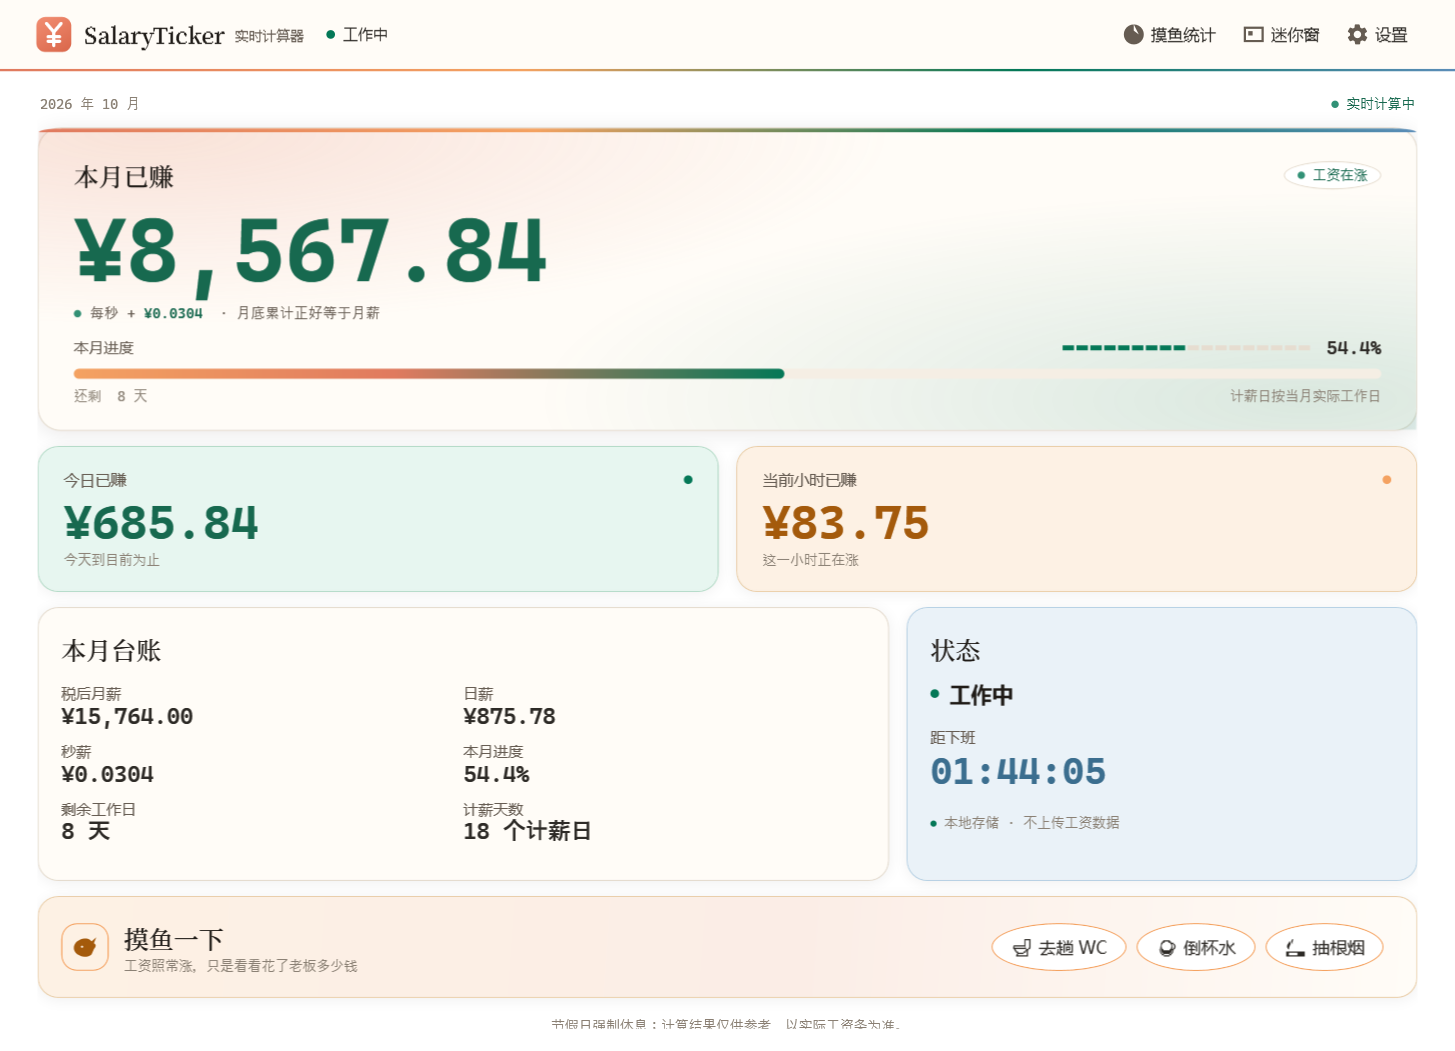
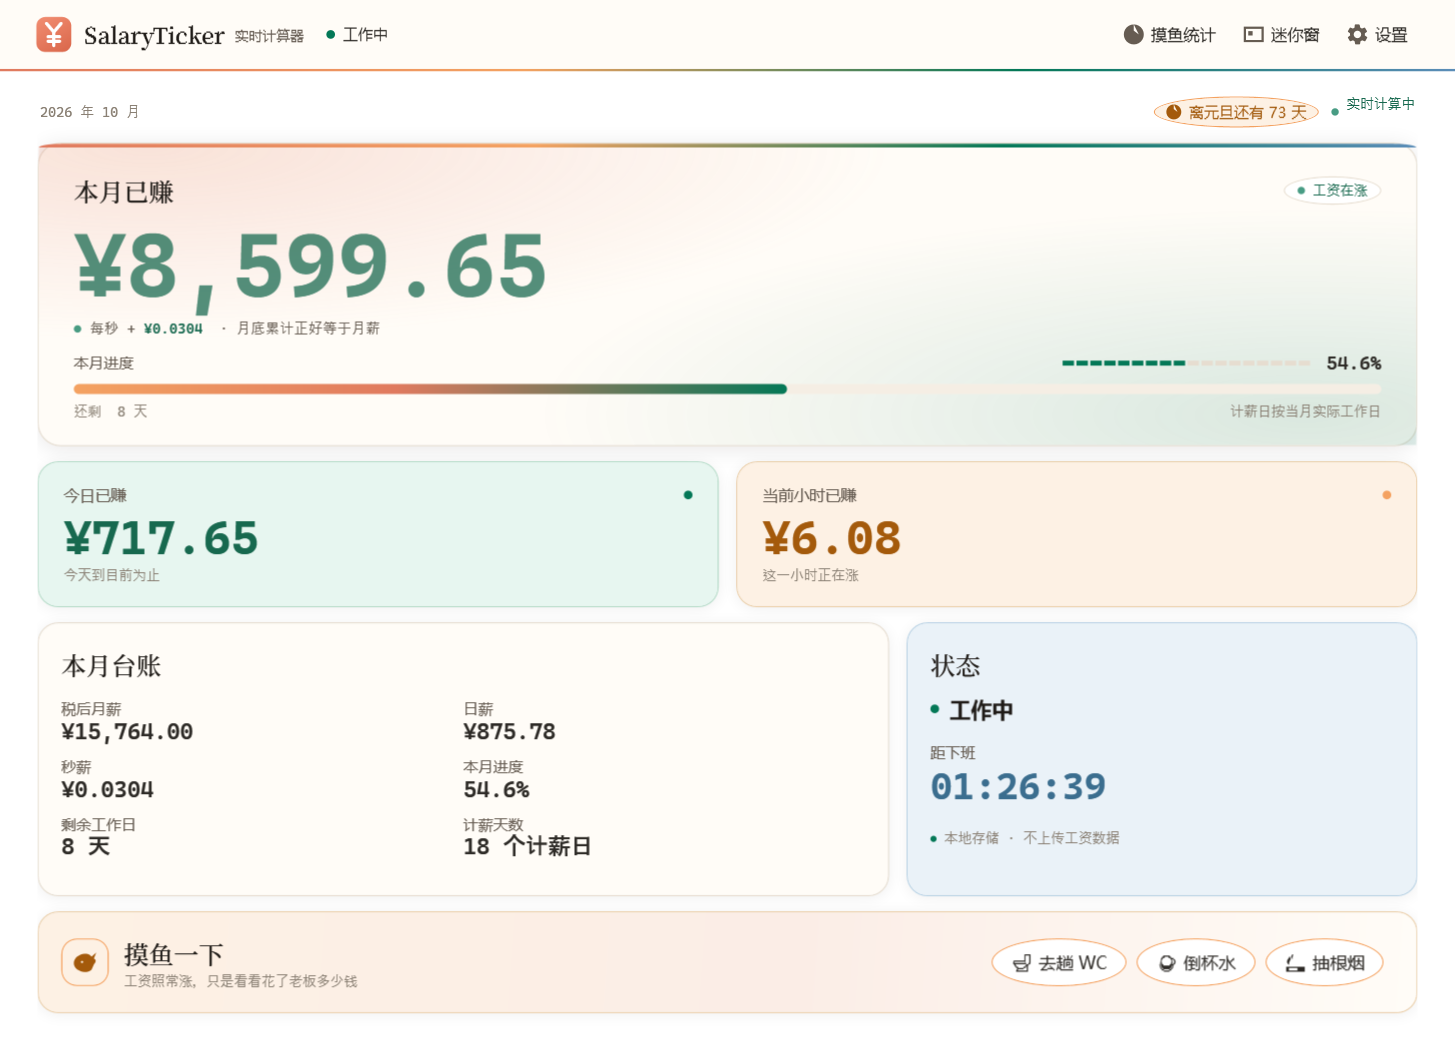
feat(ui): 主窗增加下一个假期倒计时
- 新增 NextHolidayCalculator 纯函数与 MainViewModel.NextHolidayText
- 顶部上下文行增加琥珀胶囊，例如「离元旦还有 73 天」
- 覆盖今天在假期、年末推断元旦、假期表待更新等场景，新增 5 个测试
- 同步更新官网 app-shot

diff --git a/Views/Pages/DashboardView.xaml b/Views/Pages/DashboardView.xaml
@@ -22,6 +22,24 @@
                            Style="{StaticResource WMonoSmallStyle}"
                            VerticalAlignment="Center"/>
                 <StackPanel DockPanel.Dock="Right" Orientation="Horizontal" VerticalAlignment="Center">
+                    <Border Background="{StaticResource WAmberSoftBrush}"
+                            BorderBrush="{StaticResource WAmberBrush}"
+                            BorderThickness="1" CornerRadius="999"
+                            Padding="9,3" Margin="0,0,10,0"
+                            VerticalAlignment="Center">
+                        <StackPanel Orientation="Horizontal">
+                            <Path Data="{StaticResource IconHistory}"
+                                  Fill="{StaticResource WAmberStrongBrush}"
+                                  Width="12" Height="12" Stretch="Uniform"
+                                  VerticalAlignment="Center"/>
+                            <TextBlock Text="{Binding NextHolidayText}"
+                                       FontFamily="{StaticResource WFontBody}"
+                                       FontSize="11.5"
+                                       Foreground="{StaticResource WAmberStrongBrush}"
+                                       Margin="6,0,0,0"
+                                       VerticalAlignment="Center"/>
+                        </StackPanel>
+                    </Border>
                     <Ellipse Style="{StaticResource WLiveDotStyle}" Margin="0,0,6,0"/>
                     <TextBlock Text="实时计算中"
                                Style="{StaticResource WMonoSmallStyle}"

diff --git a/Services/NextHolidayCalculator.cs b/Services/NextHolidayCalculator.cs
@@ -1,0 +1,62 @@
+// ============================================================================
+// 文件名：NextHolidayCalculator.cs
+// 功能描述：根据已配置的节假日，生成「离下一个假期还有多少天」的显示文案。
+//           纯函数，便于单元测试；不依赖系统时间或全局服务。
+// ============================================================================
+
+namespace SalaryTicker.Services;
+
+using System;
+using System.Linq;
+using SalaryTicker.Models;
+
+/// <summary>
+/// 下一个假期倒计时文案
+/// </summary>
+public static class NextHolidayCalculator
+{
+    /// <summary>
+    /// 生成倒计时文案。
+    /// - 今天在假期中：正在{名称}假期
+    /// - 有未来假期：离{名称}还有 N 天
+    /// - 当前年假期表已用完，且包含元旦：推断下一年元旦
+    /// - 其他：假期表待更新
+    /// </summary>
+    public static string Describe(DateOnly today, IReadOnlyList<HolidayEntry> holidays)
+    {
+        if (holidays.Count == 0)
+            return "假期表待更新";
+
+        var todayHoliday = holidays.FirstOrDefault(h => h.Date == today);
+        if (todayHoliday != null)
+            return $"正在{todayHoliday.Name}假期";
+
+        var next = holidays
+            .Where(h => h.Date > today)
+            .MinBy(h => h.Date);
+        if (next != null)
+        {
+            int days = next.Date.DayNumber - today.DayNumber;
+            return $"离{next.Name}还有 {days} 天";
+        }
+
+        int lastYear = holidays.Max(h => h.Date.Year);
+        bool hasNewYear = holidays.Any(h => h.Name.Contains("元旦", StringComparison.Ordinal));
+        bool hasFullYear = holidays
+            .Where(h => h.Date.Year == today.Year)
+            .Select(h => h.Name)
+            .Distinct()
+            .Count() > 1;
+
+        // 年末空档：假期表只到当前年时，下一次固定假期就是下一年元旦。
+        // 如果当前年只有元旦一条（表可能不完整），不猜测。
+        if (today.Year == lastYear && hasNewYear && hasFullYear)
+        {
+            var nextNewYear = new DateOnly(today.Year + 1, 1, 1);
+            int days = nextNewYear.DayNumber - today.DayNumber;
+            return $"离元旦还有 {days} 天";
+        }
+
+        return "假期表待更新";
+    }
+}

diff --git a/tests/ShenzhenSalaryTimer.Tests/NextHolidayCalculatorTests.cs b/tests/ShenzhenSalaryTimer.Tests/NextHolidayCalculatorTests.cs
@@ -1,0 +1,70 @@
+// ============================================================================
+// 文件名：NextHolidayCalculatorTests.cs
+// 功能描述：下一个假期倒计时文案的单元测试。
+// ============================================================================
+
+using System;
+using SalaryTicker.Models;
+using SalaryTicker.Services;
+using Xunit;
+
+namespace ShenzhenSalaryTimer.Tests;
+
+public class NextHolidayCalculatorTests
+{
+    private static HolidayEntry H(string date, string name) =>
+        new() { Date = DateOnly.Parse(date), Name = name };
+
+    [Fact]
+    public void ReturnsNextHolidayCountdown()
+    {
+        var holidays = new[] { H("2026-10-01", "国庆"), H("2027-01-01", "元旦") };
+
+        Assert.Equal(
+            "离元旦还有 73 天",
+            NextHolidayCalculator.Describe(new DateOnly(2026, 10, 20), holidays));
+    }
+
+    [Fact]
+    public void ReturnsInHolidayMessage()
+    {
+        var holidays = new[]
+        {
+            H("2026-10-01", "国庆"),
+            H("2026-10-02", "国庆"),
+            H("2026-10-03", "国庆")
+        };
+
+        Assert.Equal(
+            "正在国庆假期",
+            NextHolidayCalculator.Describe(new DateOnly(2026, 10, 2), holidays));
+    }
+
+    [Fact]
+    public void FallsBackToNextNewYearWhenCurrentYearHolidaysAreExhausted()
+    {
+        var holidays = new[] { H("2026-01-01", "元旦"), H("2026-10-01", "国庆") };
+
+        Assert.Equal(
+            "离元旦还有 73 天",
+            NextHolidayCalculator.Describe(new DateOnly(2026, 10, 20), holidays));
+    }
+
+    [Fact]
+    public void ReturnsUpdateHintWhenHolidayTableIsOutdated()
+    {
+        var holidays = new[] { H("2026-01-01", "元旦"), H("2026-10-01", "国庆") };
+
+        Assert.Equal(
+            "假期表待更新",
+            NextHolidayCalculator.Describe(new DateOnly(2027, 1, 2), holidays));
+    }
+
+    [Fact]
+    public void ReturnsUpdateHintWhenTableIsEmpty()
+    {
+        Assert.Equal(
+            "假期表待更新",
+            NextHolidayCalculator.Describe(new DateOnly(2026, 10, 20), Array.Empty<HolidayEntry>()));
+    }
+}

diff --git a/ViewModels/MainViewModel.cs b/ViewModels/MainViewModel.cs
@@ -59,6 +59,10 @@ public partial class MainViewModel : ObservableObject
     /// <summary>本月进度刻度（每格一个计薪日）</summary>
     public ObservableCollection<PayDayTick> PayDayTicks { get; } = new();
 
+    /// <summary>离下一个假期还有多少天（或正在假期中）</summary>
+    [ObservableProperty]
+    private string _nextHolidayText = "正在计算…";
+
     // ========== 状态显示 ==========
 
     /// <summary>状态文案</summary>
@@ -275,6 +279,9 @@ public partial class MainViewModel : ObservableObject
         MonthContextText = $"{snapshot.Now.Year} 年 {snapshot.Now.Month} 月";
         PayDaysContextText = $"{snapshot.PayableDaysInMonth} 个计薪日";
         UpdatePayDayTicks(snapshot);
+        NextHolidayText = NextHolidayCalculator.Describe(
+            DateOnly.FromDateTime(snapshot.Now.DateTime),
+            AppServices.Config.Settings.HolidayDates);
 
         Status = snapshot.Status;
         StatusText = GetStatusText(snapshot.Status, snapshot.IsMuyu);

diff --git a/docs/ui-refresh/decision.md b/docs/ui-refresh/decision.md
@@ -243,6 +243,20 @@
 - 官网首屏已用新截图验证：`site-warm-shots.png`；图片无 404，设备框与迷你浮层布局正常。
 - `dotnet build` 通过、`dotnet test` 231 全绿、`dotnet run -- smoke` 全部 OK；未部署。
 
+## 下一个假期倒计时（2026-10-20）
+
+- 用户希望在应用内看到「离下一个假期还有多少天」，例如「离元旦还有 73 天」，让用户有盼头。
+- 新增 `Services/NextHolidayCalculator.cs` 纯函数：
+  - 今天在假期中 → 「正在{名称}假期」
+  - 有未来节假日 → 「离{名称}还有 N 天」
+  - 当前年假期表已用完且包含元旦 → 推断下一年元旦
+  - 其他 → 「假期表待更新」
+- `MainViewModel.NextHolidayText` 随每个快照刷新；主窗顶部上下文行增加琥珀色胶囊（时钟图标 + 文案），例如「离元旦还有 73 天」。
+- 新增 5 个单元测试（`NextHolidayCalculatorTests`），测试总数 231 → 236。
+- 官网 `app-shot` 同步更新（顶部含假期倒计时）；`mini-shot` 不变。
+- 验证：`dotnet build` 通过、`dotnet test` 236 全绿、`dotnet run -- smoke` 全部 OK；截图 `app-shot-new.png`。
+- 未部署。
+
 ## Phase 0 基线
 
 - `dotnet build`：通过。
